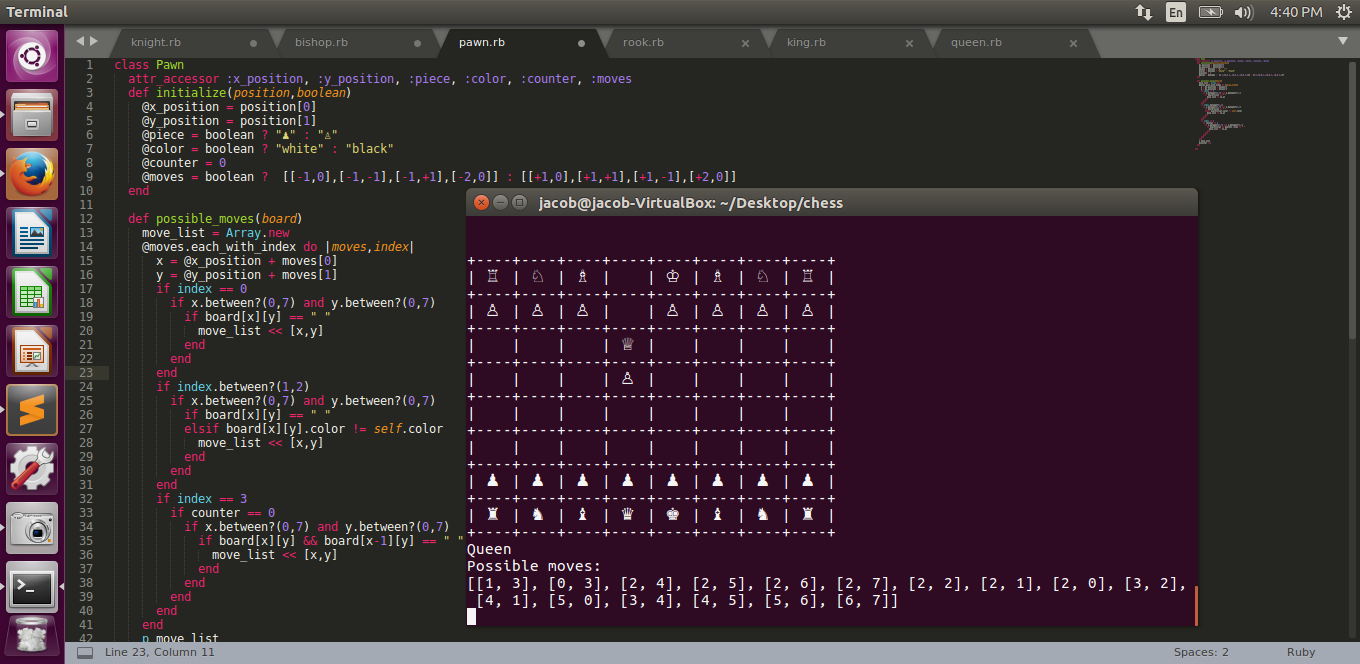
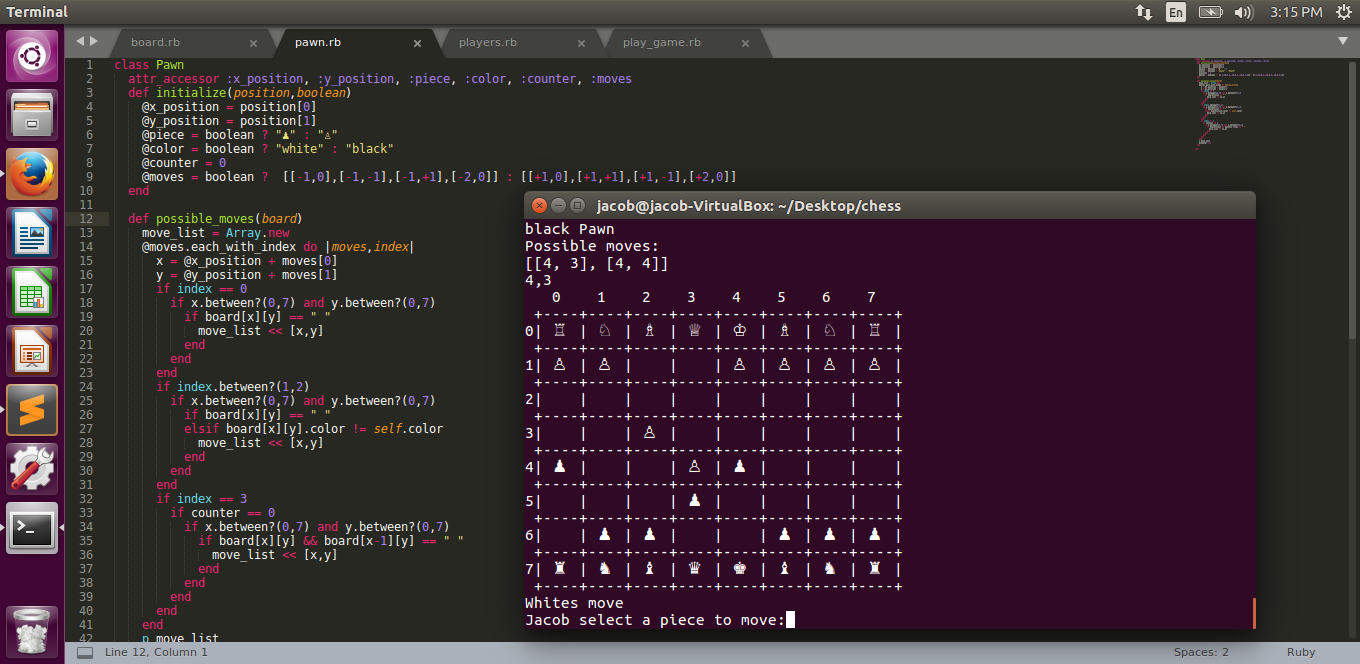
Added screen shot.

diff --git a/play_game.rb b/play_game.rb
@@ -15,11 +15,11 @@ counter = 0
 until counter > 5
   test.display
   print "\nWhites move"
-  print "\n#{player1.name} make your move:"
+  print "\n#{player1.name} select a piece to move:"
   test.move("white")
   test.display
   print "\nBlacks move"
-  print "\n#{player2.name} make your move:"
+  print "\n#{player2.name} select a piece to move:"
   test.move("black")
   counter +=1
 end
